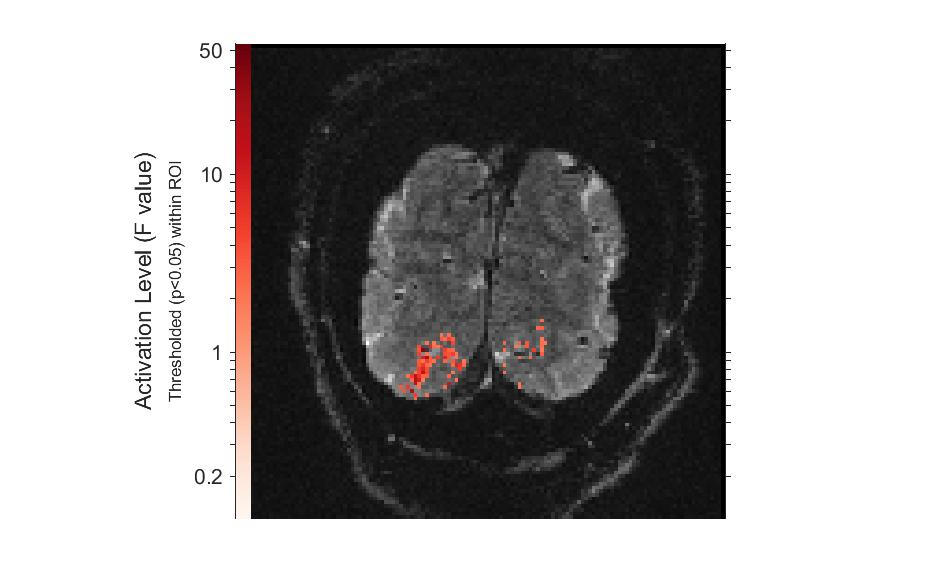
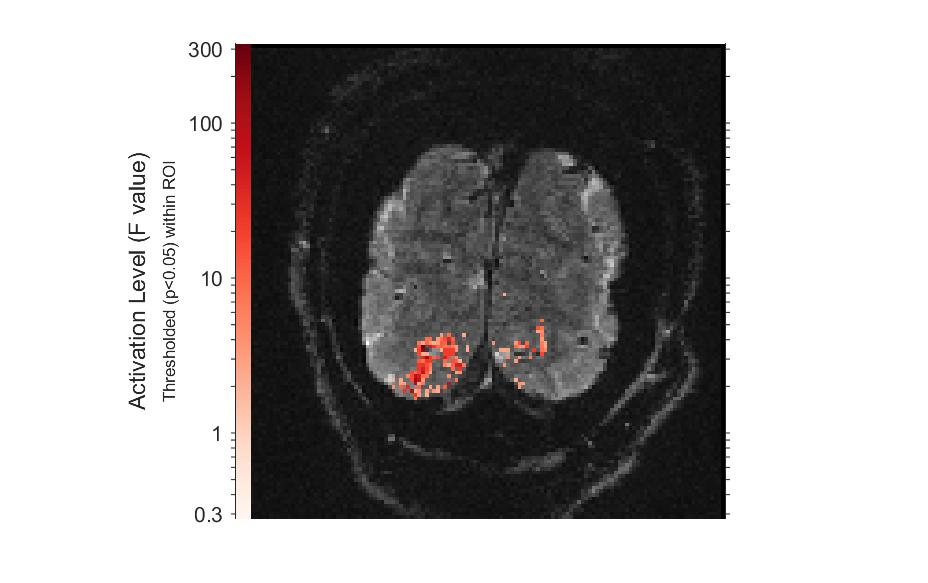
update fig

diff --git a/neuroimaging/HRdelay.m b/neuroimaging/HRdelay.m
@@ -6,12 +6,12 @@ verbose = 0; % prints more info
 %% Between-session feature selection parameters
 % Activated voxels
 featSel_bSess.activation.doIt = 1;
-featSel_bSess.activation.fitType = 'mixed';
+featSel_bSess.activation.fitType = 'fixed';
 featSel_bSess.activation.threshType = 'p';
 featSel_bSess.activation.threshVal = 0.05;
 % Vein voxels
 featSel_bSess.vein.doIt = 1;
-featSel_bSess.vein.source = 'reducedModelResid';% 'reducedModelResid' (stimulus-driven signal included in std) or 'fullModelResid (stimulus-driven signal excluded in std)'
+featSel_bSess.vein.source = 'fullModelResid';% 'reducedModelResid' (stimulus-driven signal included in std) or 'fullModelResid (stimulus-driven signal excluded in std)'
 featSel_bSess.vein.percentile = 20;
 % Discriminant voxels
 featSel_bSess.discrim.doIt = 1;
